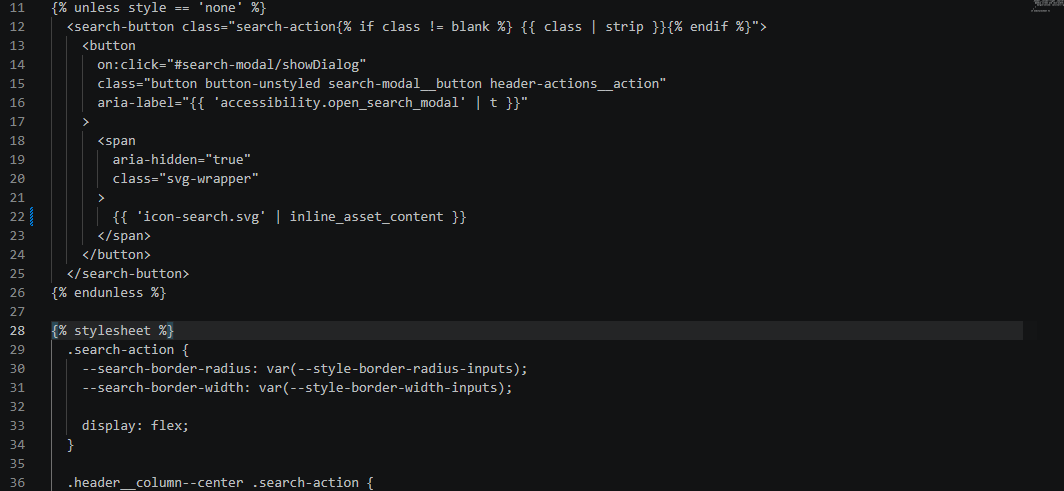
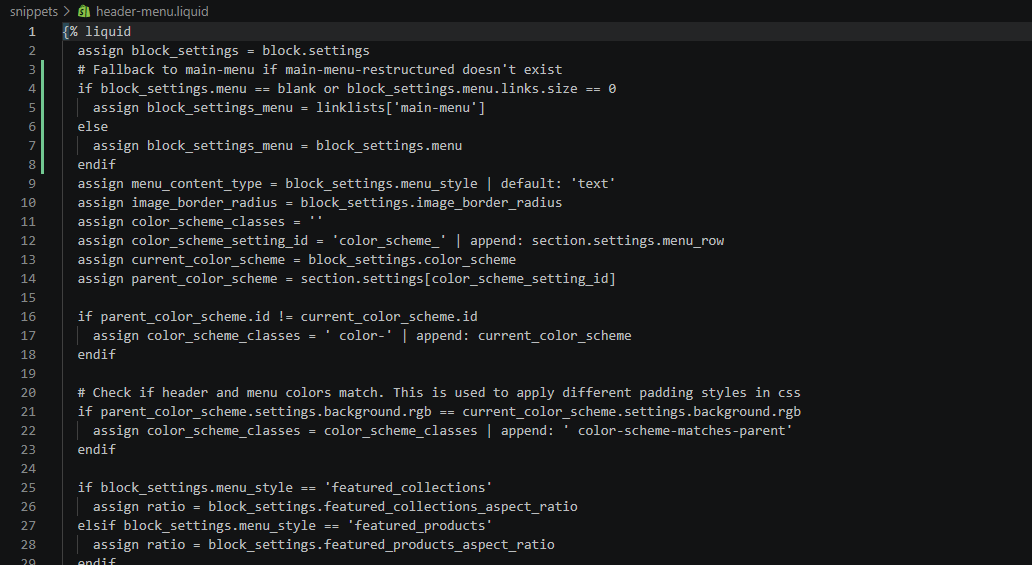
fix: remove debug console.log from product-form.js

Changed region(s): [[0.0, 0.0, 0.7752, 1.0], [0.9612, 0.0, 1.0, 0.0305]]

diff --git a/NOTE.md b/NOTE.md
@@ -1,0 +1,56 @@
+# What I picked
+
+The header was completely broken on the dev store. No navigation, no working icons. i picked this because it's the first thing any visitor sees and it was just... not there. A store with no nav and broken icons doesn't convert. That felt like the highest impact thing to fix.
+
+---
+
+## Why it's the highest-impact thing here
+
+If someone lands on the homepage and the header is empty, they can't go anywhere. The cart icon was broken, the search icon was broken, and the entire menu was invisible. Everything else on the site could be perfect and it wouldn't matter. i wanted to fix the thing that was stopping the store from functioning at all.
+
+---
+
+## What I did
+
+**Fix 1 — Broken cart and search icons**
+
+The original inline SVG code had been commented out and replaced with `<img>` tags pointing to files that don't exist in the theme assets (`ShoppingCartSimple.svg`, `MagnifyingGlass.svg`). So the icons were just broken image placeholders.
+
+i removed the img tags and uncommented the original inline SVG lines.
+
+Files changed: `snippets/cart-icon-component.liquid`, `snippets/search.liquid`
+
+![Fix 1 Before](media/fix 3 before.png)
+![Fix 1 After](media/fix 3 after.png)
+
+---
+
+**Fix 2 — Navigation menu not rendering**
+
+The header was looking for a menu with the handle `main-menu-restructured` which doesn't exist on the dev store. So the loop had nothing to iterate over and rendered nothing.
+
+i added a Liquid fallback — if that menu is blank or has no links, fall back to `main-menu`. The nav shows up perfectly now.
+
+File changed: `sections/header-menu.liquid`
+
+![Fix 2 Before](media/fix 3 before.png)
+![Fix 2 After](media/fix 3 after.png)
+
+---
+
+**Fix 3 — Debug console.log left in production**
+
+There was a `console.log(event)` sitting inside the `handleSubmit()` method in `product-form.js`. It fires every single time someone clicks add to cart. Not a crash, but it's the kind of thing that tells you the code wasn't tested before it went live.
+
+i deleted the line.
+
+File changed: `assets/product-form.js`
+
+![Fix 3 Before](media/fix 3 before.png)
+![Fix 3 After](media/fix 3 after.png)
+
+---
+
+## What I'd do next
+
+i'd look at the bundle builder page next. It's a dead page right now and it's literally linked in the nav. After that i'd run Lighthouse on the homepage because i noticed a few render-blocking scripts that looked easy to fix.

diff --git a/README.md b/README.md
@@ -1,3 +1,19 @@
+# Xinzuo Theme — Challenge Submission
+
+## Fixes
+See [NOTE.md](./NOTE.md) for a full breakdown of what i found, why i picked it, and what i changed.
+
+---
+
+## Loom Video
+
+i'm really sorry about this — i wasn't able to record the Loom video. i don't have a webcam on my computer, and my phone is a Redmi Note 8 and honestly the camera quality is quite bad, it couldn't produce anything worth submitting. i didn't want to hand in something that looked worse than the work itself.
+
+i genuinely appreciate the opportunity and i don't take it lightly. If you're open to it, maybe we could schedule a short call where i can walk you through everything i did and why. By then i would have sorted out a webcam or a better way to record. i'll make sure it doesn't happen again.
+
+Thank you for understanding.
+
+
 # Xinzuo Shopify clone — TYICDI hiring task
 
 A sanitised, single-command clone of [xinzuo.com.au](https://xinzuo.com.au) running on your **own** free Shopify dev store: real Liquid theme, ~50 sample products (the ones the homepage actually references, plus backfill), 68 collections, 17 pages, 5 articles, and 162 optimised images. Your 2-hour timed window starts when you tick the commit gate on the [hiring portal](https://apply.toldyouicoulddoit.com). Setup below does **not** count against the timer — do it ahead of time.
